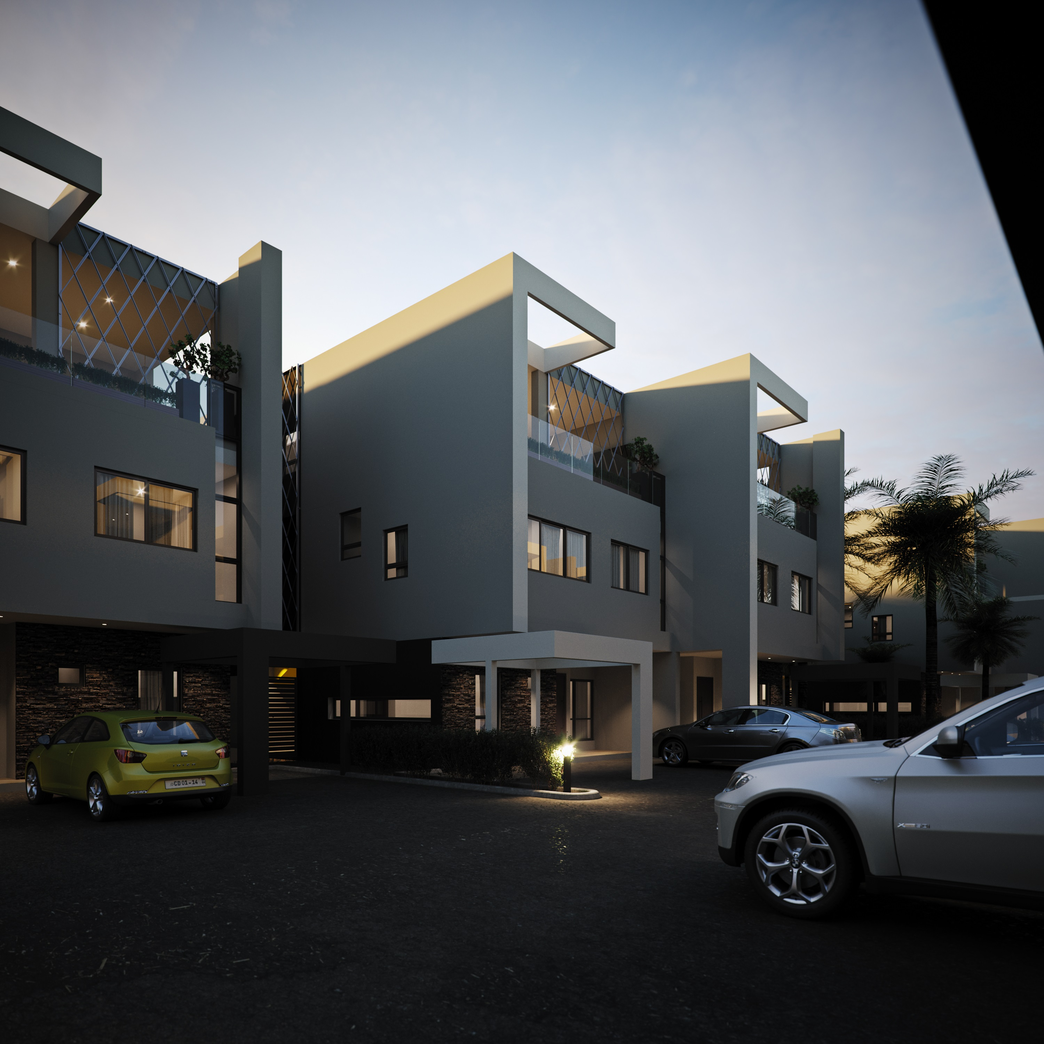
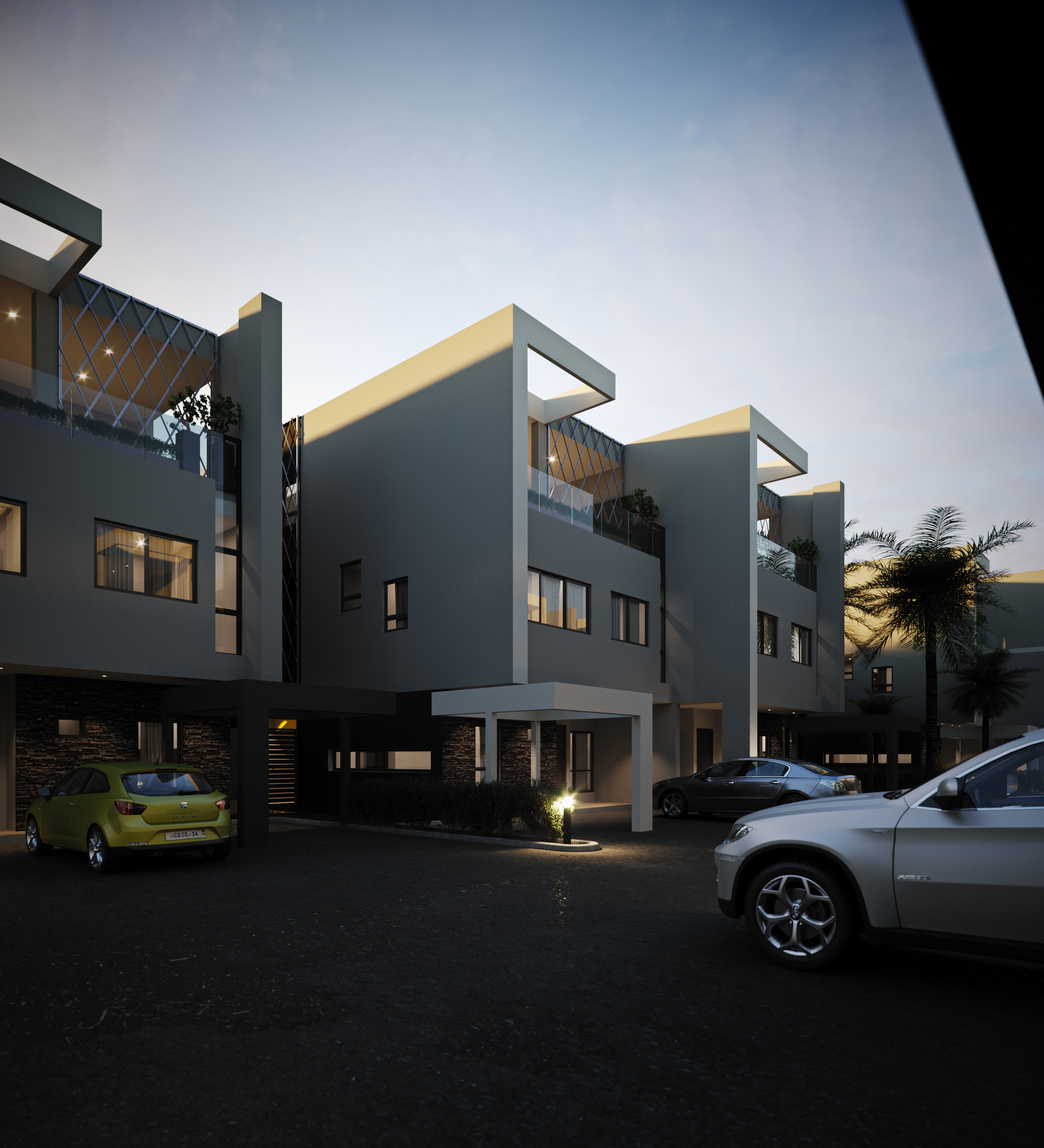
fix(hamlet): serve the uncropped 3000x3298 master for the parking-court plate
Restores the full FINAL_RENDERS 138 frame instead of a square bake and
re-anchors its phone cover crop at 82% for the taller aspect.

diff --git a/the-hamlet-presentation.html b/the-hamlet-presentation.html
@@ -145,7 +145,7 @@
       </div>
 
       <div class="gallery-item">
-        <img width="3000" height="3000" src="assets/images/hamlet/E9tM3Z2XMAMNd0k.jpg" alt="The Hamlet from the parking court at dusk: lit windows and diamond lattice roof screens above stone-clad carports, a lime-green hatchback and a silver SUV on the asphalt, a bollard light glowing in a planted bed, and palms at the right." class="gallery-img" loading="lazy">
+        <img width="3000" height="3298" src="assets/images/hamlet/E9tM3Z2XMAMNd0k.jpg" alt="The Hamlet from the parking court at dusk: lit windows and diamond lattice roof screens above stone-clad carports, a lime-green hatchback and a silver SUV on the asphalt, a bollard light glowing in a planted bed, and palms at the right." class="gallery-img" loading="lazy">
       </div>
 
       <div class="gallery-item">

diff --git a/js/main.js b/js/main.js
@@ -2138,7 +2138,7 @@ document.addEventListener('DOMContentLoaded', async () => {
         service: '3D Visualization',
         discipline: 'interiors',
         imageUrl: 'assets/images/hamlet/E9tM3Z2XMAMNd0k.jpg',
-        mobilePosition: '77% center',
+        mobilePosition: '82% center',
         projectUrl: 'the-hamlet-presentation.html',
         desc: 'Interior design and photorealistic 3D visualization for The Hamlet — twenty luxury residences in Cantonments, Accra, rendered to present the proposed houses to prospective clients.',
         specs: {
